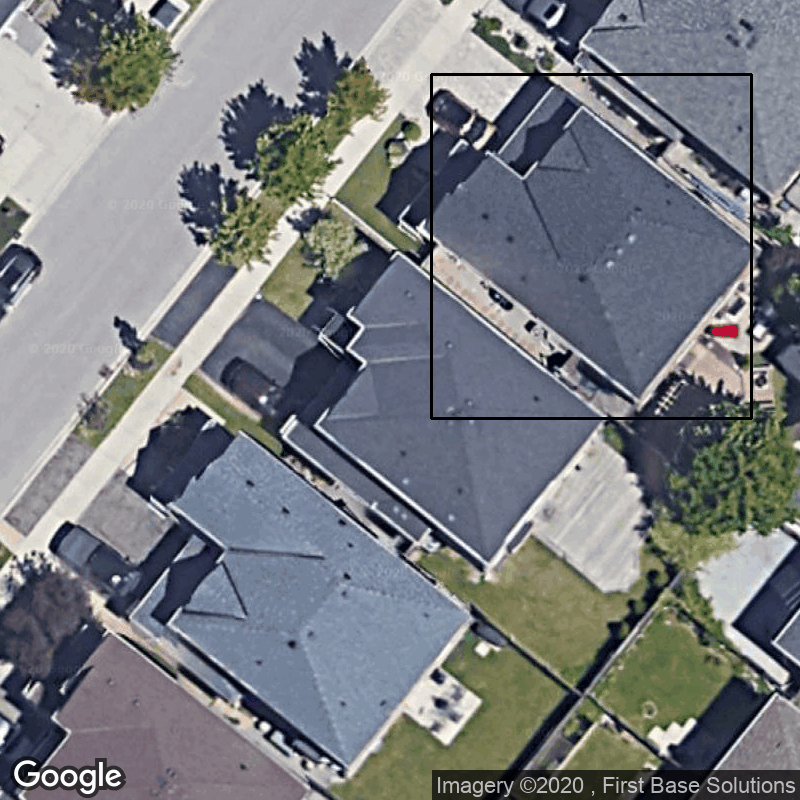
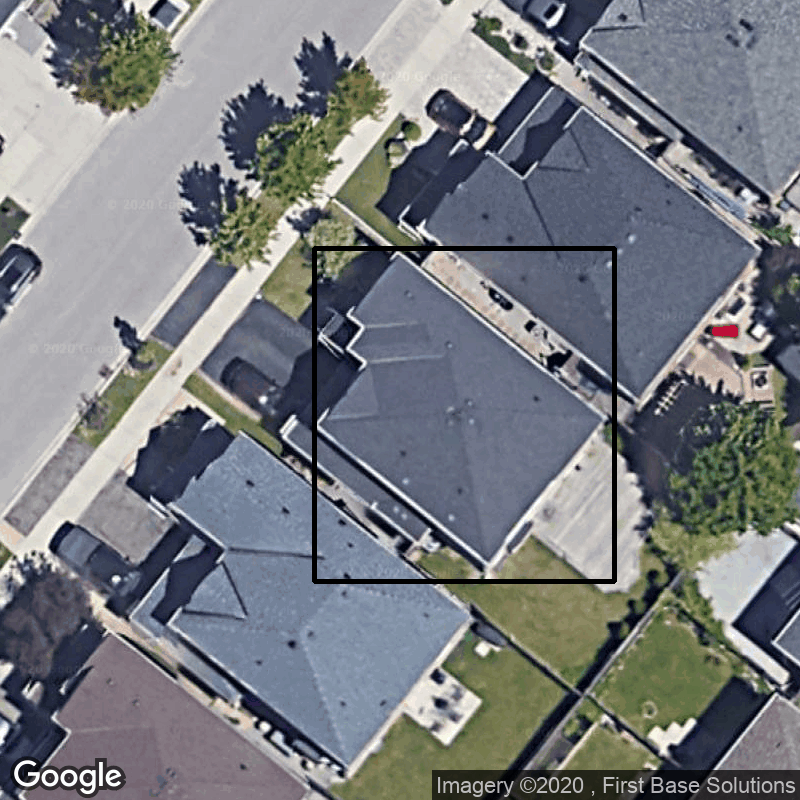
Closest Box

Changed region(s): [[0.375, 0.0938, 0.9375, 0.75], [0.9375, 0.0938, 0.9688, 0.5]]

diff --git a/roofdetector/rooftop_detection.py b/roofdetector/rooftop_detection.py
@@ -13,6 +13,10 @@ with open('keys.json', 'r') as f:
 ml_project_id = keys["ml-project-id"]
 ml_model_id = keys["ml-model-id"]
 
+imagewidth = 400
+imageheight = 400
+scale = 2
+
 # 'content' is base-64-encoded image data.
 def get_prediction(content, project_id, model_id):
   prediction_client = automl_v1beta1.PredictionServiceClient()
@@ -23,20 +27,53 @@ def get_prediction(content, project_id, model_id):
   request = prediction_client.predict(name, payload, params)
   return request  # waits till request is returned
 
+def calculateDistance(x1,y1,x2,y2):  
+     dist = math.sqrt((x2 - x1)**2 + (y2 - y1)**2)  
+     return dist  
+
 def make_recursive_prediction(zoom, latitude, longitude):
+  # Gets image of map from lat and long
   img = get_map.get_map_img(zoom, latitude, longitude)
+
   if (zoom > 0):
+    # Try running the following code without errors
     try:
+      # make a prediction on the image
       prediction = get_prediction(img, ml_project_id, ml_model_id)
-      name = prediction.payload[0].display_name
-      score = prediction.payload[0].image_object_detection.score
-      
-      box = prediction.payload[0].image_object_detection.bounding_box.normalized_vertices
-      x1 = box[0].x*800
-      y1 = box[0].y*800
-      x2 = box[1].x*800
-      y2 = box[1].y*800
+
+      center = ((imagewidth*scale)/2,(imageheight*scale)/2)
+      dists = []
+
+      # iterate through each detection and calculate their distance to the center
+      for i in range (0, len(prediction.payload)):
+        detection = prediction.payload[i]
+        box = detection.image_object_detection.bounding_box.normalized_vertices
+        x1 = box[0].x*imageheight*scale
+        y1 = box[0].y*imageheight*scale
+        x2 = box[1].x*imageheight*scale
+        y2 = box[1].y*imageheight*scale
+        boxcenter = ((x1+x2)/2,(y1+y2)/2)
+        distToCenter = calculateDistance(boxcenter[0], boxcenter[1], center[0],center[1])
+        dists.append((distToCenter,i))
+
+      # find the box closest to the center of the frame
+      closestDist = dists[0]
+      for box in dists:
+        if box[0] < closestDist[0]:
+          closestDist = box
+
+      # return values of the closest box
+      payload = prediction.payload[closestDist[1]]
+      name = payload.display_name
+      score = payload.image_object_detection.score
+      box = payload.image_object_detection.bounding_box.normalized_vertices
+      x1 = box[0].x*imageheight*scale
+      y1 = box[0].y*imageheight*scale
+      x2 = box[1].x*imageheight*scale
+      y2 = box[1].y*imageheight*scale
       return img, name, score, x1, y1, x2, y2, zoom
+    
+    # if no detections are found, zoom out and recursively run the function over again
     except (IndexError, KeyError, TypeError):
       zoom -= 1
       return make_recursive_prediction(zoom, latitude, longitude)
@@ -73,26 +110,30 @@ def get_roof_size(rType,x1,y1,x2,y2, latitude, zoom):
   return area
 
 def draw_box(img, x1, y1, x2, y2):
-  print(x1,x2,y1,y2)
   start = (int(x1),int(y1))
   end = (int(x2),int(y2))
-  print (start, end)
   image = np.asarray(bytearray(img), dtype="uint8")
   image = cv2.imdecode(image, cv2.IMREAD_COLOR)
 
-  cv2.rectangle(image, start, end, 0, 2)
+  cv2.rectangle(image, start, end, 0, 4)
   cv2.imwrite("my.png",image)
 
-  #cv2.imshow("lalala", image)
-  #k = cv2.waitKey(0)
-
+  cv2.imshow("lalala", image)
+  q = cv2.waitKey(0)
 
 def get_roof_data(latitude, longitude):
   zoom = 20
   image, name, score, x1, y1, x2, y2, endZoom = make_recursive_prediction(zoom, latitude, longitude)
-  get_roof_size(name, x1,y1,x2,y2, latitude, endZoom)
+  size = get_roof_size(name, x1,y1,x2,y2, latitude, endZoom)
+
+  output = "\n\nDetected roof at ({},{})\n\
+Type: {}\n\
+Confidence: {} %\n\
+Surface Area: {} Meters".format(str(latitude), str(longitude),name, int(score*100), str(int(size)))
+  print(output)
+
   draw_box(image, x1, y1, x2, y2)
-  #print(name, score, box, finalZoom)
+  
 
 if __name__ == "__main__":
   lat = 43.521740
